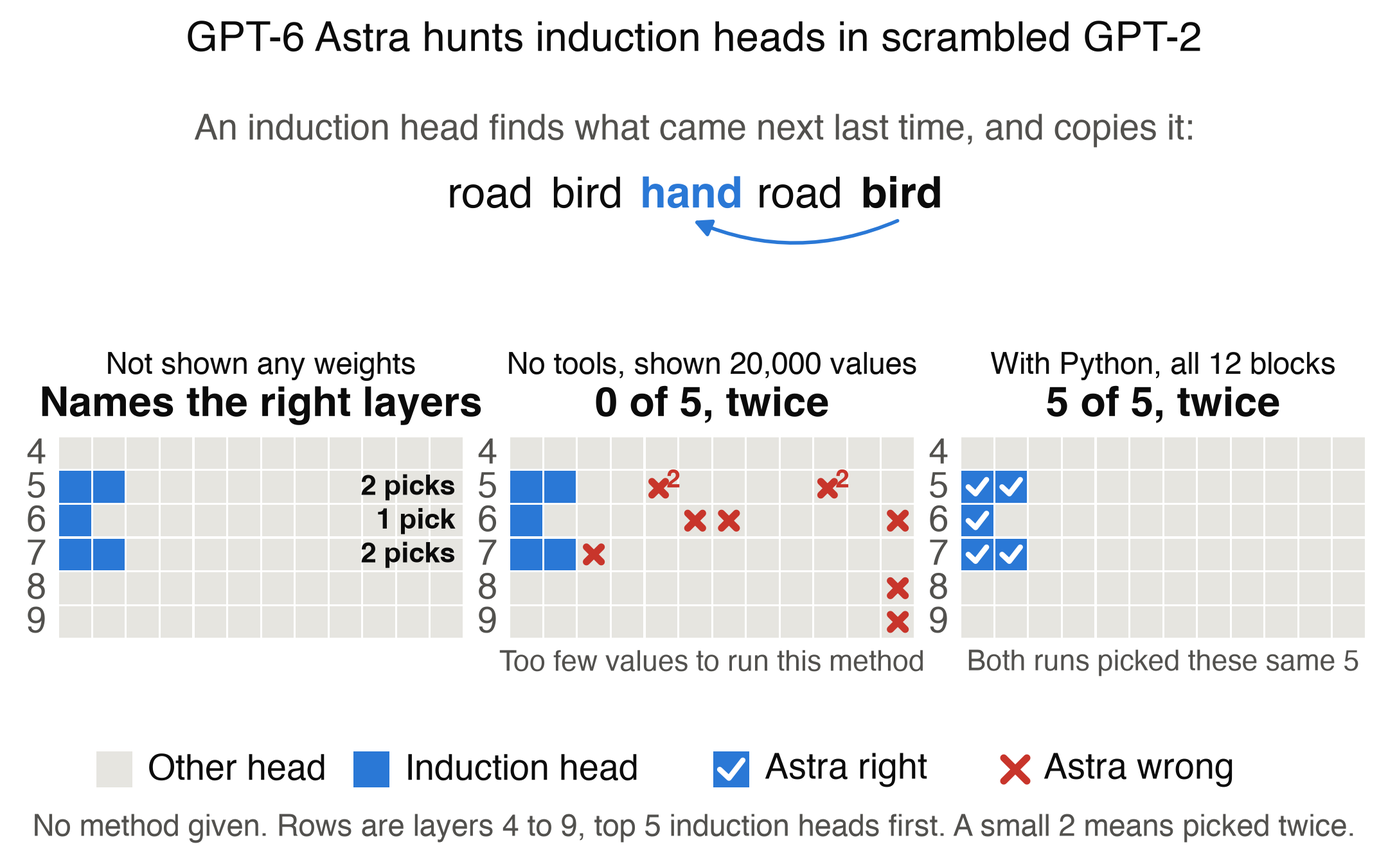
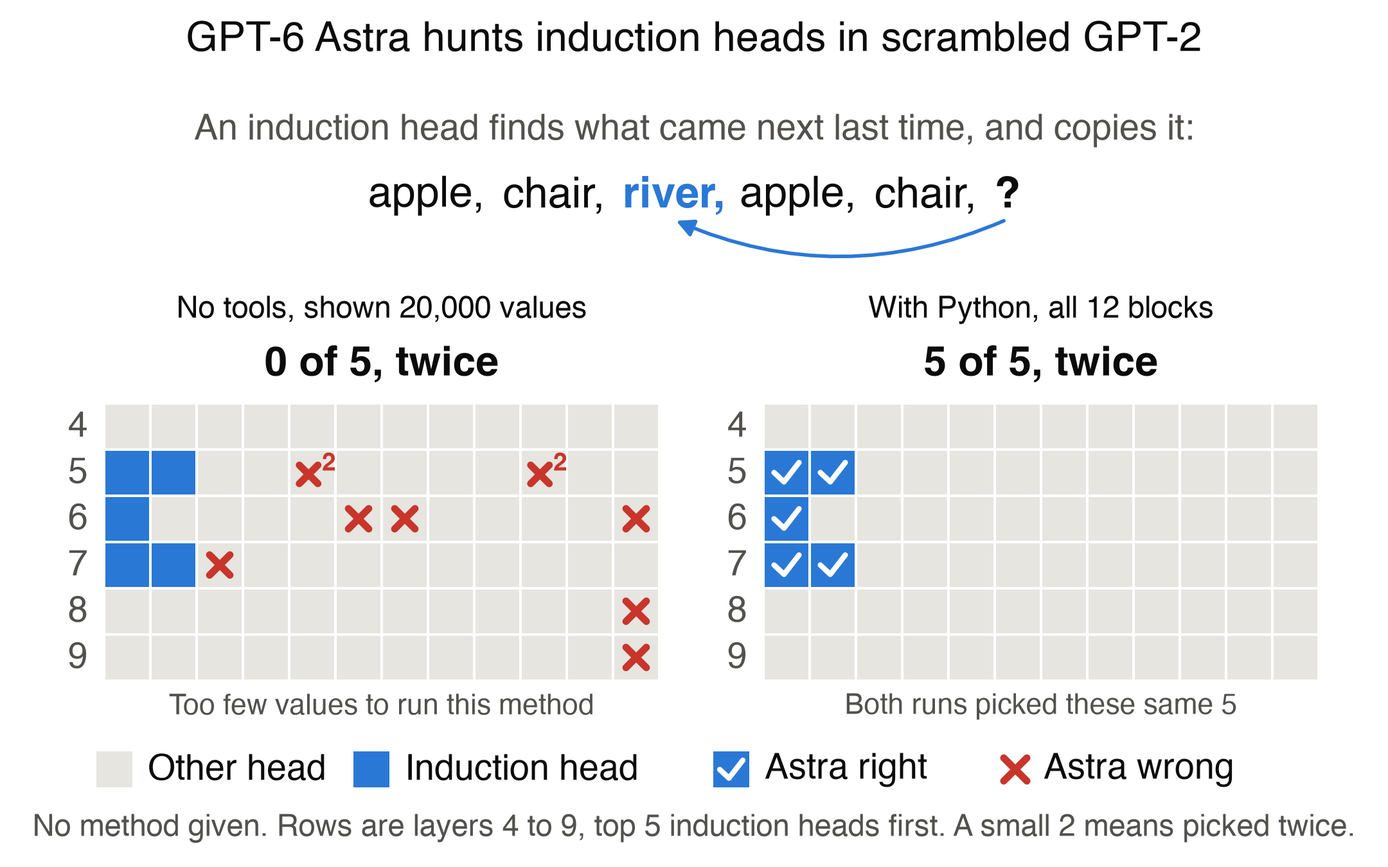
Use a readable example and add a query control to the path test
Replace the example with a comma list, drop the no-weights panel from the figure, and test random heads through
queries as well as keys.

diff --git a/scripts/reading_figure.py b/scripts/reading_figure.py
@@ -32,12 +32,11 @@ LABEL_POINTS, TITLE_POINTS, RESULT_POINTS, STAT_POINTS = 20, 23, 26, 44
 MARK_WIDTH = 4
 TITLE = "Can GPT-6 Astra find induction heads in scrambled GPT-2 weights?"
 EXAMPLE_INTRO = "An induction head finds what came next last time, and copies it:"
-EXAMPLE_WORDS = ("road", "bird", "hand", "road", "bird")
+EXAMPLE_WORDS = ("apple,", "chair,", "river,", "apple,", "chair,", "?")
 EXAMPLE_ANSWER = 2
 NOTE = "Layers 4 to 9 of 12. A small 2 means picked in both runs."
 STORY_TITLE = "GPT-6 Astra hunts induction heads in scrambled GPT-2"
-STORY_STEPS = (("Not shown any weights", ("blind",)), ("No tools, shown 20,000 values", ("read-1", "read-2")), ("With Python, all 12 blocks", ("python-1", "python-2")))
-STORY_NO_WEIGHTS_RESULT = "Names the right layers"
+STORY_STEPS = (("No tools, shown 20,000 values", ("read-1", "read-2")), ("With Python, all 12 blocks", ("python-1", "python-2")))
 STORY_NOTE = "No method given. Rows are layers 4 to 9, top 5 induction heads first. A small 2 means picked twice."
 STORY_PYTHON_NOTE = "Both runs picked these same 5"
 STORY_READ_NOTE = "Too few values to run this method"
@@ -235,24 +234,12 @@ def _arithmetic_figure(shuffle: TokenShuffle) -> None:
     print(output, summary)
 
 
-def _story_grid(axis, scores: np.ndarray, induction_heads: set, picks: list[tuple[int, int]], layer_counts: Counter | None) -> None:
-    """Draws one step of the story: marks on heads, or for the no-weights call, how many picks each layer got."""
-    _draw_grid(axis, scores, induction_heads, picks)
-    for layer, count in (layer_counts or {}).items():
-        word = "pick" if count == 1 else "picks"
-        axis.text(HEADS - 0.25, layer + 0.5, f"{count} {word}", fontsize=STORY_POINTS, fontweight="bold", ha="right", va="center", color=INK, zorder=4)
-
-
 def _story_figure(shuffle: TokenShuffle) -> None:
     real = real_network(shuffle).double()
     real.set_attn_implementation("eager")
     scores = head_scores(real)
     order = np.argsort(-scores.ravel())[:INDUCTION_HEADS]
     induction_heads = {(int(i) // HEADS, int(i) % HEADS) for i in order}
-    blind = _run_result("blind")
-    layer_counts = Counter(layer for layer, _ in blind["answer"])
-    if dict(layer_counts) != dict(Counter(layer for layer, _ in induction_heads)):
-        raise ValueError(f"the no-weights layers {layer_counts} no longer match the induction heads")
 
     figure = plt.figure(figsize=FIGURE_INCHES, facecolor="white")
     figure.text(0.5, 0.955, STORY_TITLE, fontsize=TITLE_POINTS, ha="center", va="center", color=INK)
@@ -261,20 +248,18 @@ def _story_figure(shuffle: TokenShuffle) -> None:
     for index, (heading, arms) in enumerate(STORY_STEPS):
         picks = [pick for arm in arms for pick in _picks_in_original_order(_run_result(arm), shuffle)]
         hits = sum(pick in induction_heads for pick in picks)
-        result = STORY_NO_WEIGHTS_RESULT if not index else f"{hits // len(arms)} of {INDUCTION_HEADS}, twice"
         results[heading] = {"runs": list(arms), "picks": picks, "hits_induction": hits}
-        axis = figure.add_axes([0.042 + index * 0.325, 0.24, 0.292, 0.28])
-        _story_grid(axis, scores, induction_heads, [] if not index else picks, layer_counts if not index else None)
+        axis = figure.add_axes([0.075 + index * 0.475, 0.215, 0.4, 0.32])
+        _draw_grid(axis, scores, induction_heads, picks)
         axis.text(HEADS / 2, 2.15, heading, fontsize=STORY_POINTS + 1, ha="center", color=INK)
-        axis.text(HEADS / 2, 3.4, result, fontsize=RESULT_POINTS - 3, fontweight="bold", ha="center", color=INK)
-        if index:
-            note = STORY_PYTHON_NOTE if arms[0].startswith("python") else STORY_READ_NOTE
-            axis.text(HEADS / 2, SHOWN_LAYERS[-1] + 1.7, note, fontsize=STORY_POINTS, ha="center", va="center", color=MUTED)
+        axis.text(HEADS / 2, 3.4, f"{hits // len(arms)} of {INDUCTION_HEADS}, twice", fontsize=RESULT_POINTS - 3, fontweight="bold", ha="center", color=INK)
+        note = STORY_PYTHON_NOTE if arms[0].startswith("python") else STORY_READ_NOTE
+        axis.text(HEADS / 2, SHOWN_LAYERS[-1] + 1.55, note, fontsize=STORY_POINTS, ha="center", va="center", color=MUTED)
     _draw_legend(figure)
     figure.text(0.5, 0.045, STORY_NOTE, fontsize=LABEL_POINTS - 3, ha="center", va="center", color=MUTED)
     output = ROOT / "figures" / "reading_story_v7.png"
     figure.savefig(output, dpi=DPI)
-    output.with_suffix(".json").write_text(json.dumps({"blind_layers": sorted(layer_counts.elements()), "steps": results}, indent=1))
+    output.with_suffix(".json").write_text(json.dumps({"steps": results}, indent=1))
     print(output, {heading: value["hits_induction"] for heading, value in results.items()})
 
 

diff --git a/checks/induction_examples.py b/checks/induction_examples.py
@@ -13,6 +13,7 @@ from wsp.reading import head_scores
 FIRST = "Mira Lena Tomas Priya Ivan Nora Omar Elsa Hugo Tara Felix Anya Ravi Greta Milo".split()
 LAST = "Kowal Brandt Osei Varga Lindqvist Moreau Takeda Novak Haddad Ferro Quill Dunmore Ashby Rourke Pell".split()
 WORDS = "dog cat tree house car book road fish bird door hand river stone chair table".split()
+CITIES = "Paris Rome London Berlin Madrid Tokyo Cairo Lima Oslo Vienna".split()
 SENTENCES = {
     "name again in a new sentence": "{a} {b} went home, and {a}",
     "name again after a longer gap": "I met {a} {b} at the station. Later that day, {a}",
@@ -20,6 +21,16 @@ SENTENCES = {
     "same sentence repeated": "{a} {b} went home early. {a}",
     "name listed three times": "{a} {b}, {a} {b}, {a}",
 }
+FIGURE_CANDIDATES = (
+    ("road bird hand road bird", "hand"),
+    ("apple, chair, river, apple, chair,", "river"),
+    ("dog, table, moon, dog, table,", "moon"),
+    ("car, house, tree, car, house,", "tree"),
+    ("cat, book, door, cat, book,", "door"),
+    ("fish, stone, chair, fish, stone,", "chair"),
+    ("Anna lives in Paris. Ben lives in Rome. Anna lives in", "Paris"),
+    ("Anna likes tea. Ben likes milk. Anna likes", "tea"),
+)
 RANDOM_SETS = 10
 SEED = 20261103
 BATCH = 256
@@ -86,6 +97,17 @@ for _ in range(300):
     words = [WORDS[i] for i in word_rng.choice(len(WORDS), 5, replace=False)]
     lists.append((shuffle.encode(" ".join(words + words[:3])), shuffle.encode(f" {words[3]}")[0]))
 cases["word list repeated"] = lists
+short_lists = []
+for _ in range(300):
+    first, second, third = [WORDS[i] for i in word_rng.choice(len(WORDS), 3, replace=False)]
+    short_lists.append((shuffle.encode(f"{first}, {second}, {third}, {first}, {second},"), shuffle.encode(f" {third}")[0]))
+cases["short comma list, 3 words repeated"] = short_lists
+who_lives = []
+for _ in range(300):
+    first, second = [FIRST[i] for i in word_rng.choice(len(FIRST), 2, replace=False)]
+    here, there = [CITIES[i] for i in word_rng.choice(len(CITIES), 2, replace=False)]
+    who_lives.append((shuffle.encode(f"{first} lives in {here}. {second} lives in {there}. {first} lives in"), shuffle.encode(f" {here}")[0]))
+cases["who lives where"] = who_lives
 
 print("case | nothing | top 5 zeroed | top 5 mean | next 5 zeroed | top 10 zeroed | 5 others zeroed (mean of 10 sets), each as top-token share / mean probability")
 for label, items in cases.items():
@@ -98,6 +120,7 @@ for label, items in cases.items():
     row.append(tuple(np.mean([measure(model, prompts, answers, heads) for heads in random_sets], axis=0)))
     print(f"{label:34s} " + " | ".join(f"{a:.2f}/{b:.2f}" for a, b in row))
 
-example = shuffle.encode("road bird hand road bird")
-answer = shuffle.encode(" hand")[0]
-print("figure example, nothing silenced:", measure(model, [example], [answer]), "top 5 zeroed:", measure(model, [example], [answer], ranked[:5]))
+for text, word in FIGURE_CANDIDATES:
+    example, answer = shuffle.encode(text), shuffle.encode(f" {word}")[0]
+    before, after = measure(model, [example], [answer]), measure(model, [example], [answer], ranked[:5])
+    print(f"{text!r} -> {word!r}: nothing silenced {before[1]:.3f} (on top {before[0]:.0f}), top 5 zeroed {after[1]:.3f} (on top {after[0]:.0f})")

diff --git a/checks/how_statistic_classifies.py b/checks/how_statistic_classifies.py
@@ -154,7 +154,7 @@ def main() -> None:
     top = ranked(induction, 10)
     later = np.arange(HEADS, 144)
 
-    print("1. What the five heads and their source attend to, on repeated random tokens")
+    print(f"1. What the five heads and their source attend to, on {REPEAT_LENGTH} random tokens repeated")
     for pattern, values in patterns.items():
         print(f"  top five by {pattern}: " + ", ".join(f"{name(i)} {values.ravel()[i]:.2f}" for i in ranked(values)))
     print(f"  source {name(source)}: " + ", ".join(f"{pattern} {values.ravel()[source]:.2f} (rank {int((-values.ravel()).argsort().tolist().index(source)) + 1})" for pattern, values in patterns.items()))
@@ -217,13 +217,14 @@ def main() -> None:
     for label, offset in (("keys only", 1), ("queries only", 0)):
         attention, accuracy = path_patched(model, tokens, sources, five, offset)
         print(f"  {label}: the five's induction attention {attention[five].mean():.3f}, per head " + " ".join(f"{name(i)} {attention[i]:.2f}" for i in five) + f", repeat accuracy {accuracy:.3f}")
-    results = []
-    for _ in range(CONTROL_SETS):
-        picked = [(int(i) // HEADS, int(i) % HEADS) for i in rng.choice(others, 8, replace=False)]
-        attention, accuracy = path_patched(model, tokens, picked, five, 1)
-        results.append((attention[five].mean(), accuracy))
-    results = np.array(results)
-    print(f"  {CONTROL_SETS} random sets of 8 other heads, keys only: attention mean {results[:, 0].mean():.3f}, lowest {results[:, 0].min():.3f}; repeat accuracy mean {results[:, 1].mean():.3f}, lowest {results[:, 1].min():.3f}")
+    picked_sets = [[(int(i) // HEADS, int(i) % HEADS) for i in rng.choice(others, 8, replace=False)] for _ in range(CONTROL_SETS)]
+    for label, offset in (("keys only", 1), ("queries only", 0)):
+        results = []
+        for picked in picked_sets:
+            attention, accuracy = path_patched(model, tokens, picked, five, offset)
+            results.append((attention[five].mean(), accuracy))
+        results = np.array(results)
+        print(f"  {CONTROL_SETS} random sets of 8 other heads, {label}: attention mean {results[:, 0].mean():.3f}, lowest {results[:, 0].min():.3f}; repeat accuracy mean {results[:, 1].mean():.3f}, lowest {results[:, 1].min():.3f}")
 
     print("6. Would another previous-token head point to the same five?")
     for writer in previous_heads[:5]:

diff --git a/README.md b/README.md
@@ -5,11 +5,11 @@ By [Alex Bodner](https://twitter.com/AlexBodner_). A small follow-up to [Sparks 
 ## Reading
 With no tools and 20,000 values to read, Astra did no better than guessing. With Python and no method given, it found GPT-2's top five induction heads in both runs, on scrambled weights.
 
-![Three steps: Astra with no weights, with no tools, and with Python](figures/reading_story_v7.png)
+![Astra with no tools and with Python](figures/reading_story_v7.png)
 
 GPT-2 small has 144 attention heads, the parts that choose which earlier tokens to focus on. Induction heads complete A B ... A with B: they attend to what followed the last A and copy it, and Anthropic linked them to in-context learning. [Anthropic described them in 2021](https://transformer-circuits.pub/2021/framework/) by inspecting and running models. Astra names 5 heads from a scrambled copy's weights, and we get the truth by running GPT-2 on repeated random tokens. The top five score 0.83 to 0.92, the next five 0.46 to 0.51, and those five are the [induction heads usually cited](https://dhruvpatel1706.github.io/writing/induction-heads.html) for GPT-2 small. To check they do the work and not just look in the right place, `checks/induction_ablation.py` silences them: repeat accuracy on repeated random tokens falls from 98.6% to 28.9%. Silencing the next five leaves 97.9%, silencing all ten leaves 4.0%, and 20 sets of 5 other heads average 96.7%. Word lists fall from 93% to 47%, but a name repeated in an ordinary sentence becomes the top answer more often when these heads are silenced, for example 18% to 41% of cases, which we can't explain (`checks/induction_examples.py`).
 
-- **With Python and no method given, two runs:** 5 of 5 in both, the same five heads, in 4 and 5 turns, for $2.53 at list price. Only the blocks were available, with no way to run the model on text, and no method was given. Before its first code it spent 972 and 1,291 reasoning tokens, then tested the published two-step circuit: an earlier head passes along the previous token, and a later head matches on it. The scrambling hides each head and its coordinates, but keeps layer order and the products QK^T and VO. This tests the matching half of the circuit, because copying needs the embeddings, which it never had. `checks/composition_statistic.py` reruns that statistic with no layer rule and gets 5 of 5 on all five scrambles, so a script knowing the method does this too, and both runs see the same products, which makes them closer to one measurement than two. The deciding statistic uses about 28M of the 85M weights it could read, so this says little about size. The prompt defines the target and allows any linear algebra, and its syntax example uses `L5`, a layer holding two of the five. Its first code searches every layer, so the method doesn't need `L5`, though we can't rule out that it nudged Astra. To check: [run 1](runs/reading-python-1__live__20261104T014623Z/transcript.jsonl) and [run 2](runs/reading-python-2__live__20261104T015236Z/transcript.jsonl), one JSON line per turn with its code and output, and [the prompt](prompts/reading_python.txt). Its reasoning is encrypted, so we see its code and token counts, not its thoughts. [How Astra found them](HOW_ASTRA_FOUND_THEM.md) walks through its code and our audit for cheating, and `checks/audit_python_runs.py` reruns that audit. `checks/how_statistic_classifies.py` tests why the statistic works: the earlier head it finds, 4.11, puts 98% of its attention on the previous token, and removing the top 8 such heads only from the five heads' keys cuts their pattern from 0.87 to 0.52, against 0.82 through queries and 0.80 for random sets through keys.
+- **With Python and no method given, two runs:** 5 of 5 in both, the same five heads, in 4 and 5 turns, for $2.53 at list price. Only the blocks were available, with no way to run the model on text, and no method was given. Before its first code it spent 972 and 1,291 reasoning tokens, then tested the published two-step circuit: an earlier head passes along the previous token, and a later head matches on it. The scrambling hides each head and its coordinates, but keeps layer order and the products QK^T and VO. This tests the matching half of the circuit, because copying needs the embeddings, which it never had. `checks/composition_statistic.py` reruns that statistic with no layer rule and gets 5 of 5 on all five scrambles, so a script knowing the method does this too, and both runs see the same products, which makes them closer to one measurement than two. The deciding statistic uses about 28M of the 85M weights it could read, so this says little about size. The prompt defines the target and allows any linear algebra, and its syntax example uses `L5`, a layer holding two of the five. Its first code searches every layer, so the method doesn't need `L5`, though we can't rule out that it nudged Astra. To check: [run 1](runs/reading-python-1__live__20261104T014623Z/transcript.jsonl) and [run 2](runs/reading-python-2__live__20261104T015236Z/transcript.jsonl), one JSON line per turn with its code and output, and [the prompt](prompts/reading_python.txt). Its reasoning is encrypted, so we see its code and token counts, not its thoughts. [How Astra found them](HOW_ASTRA_FOUND_THEM.md) walks through its code and our audit for cheating, and `checks/audit_python_runs.py` reruns that audit. `checks/how_statistic_classifies.py` tests why the statistic works: the earlier head it finds, 4.11, puts 98% of its attention on the previous token, and removing the top 8 such heads only from the five heads' keys cuts their pattern from 0.87 to 0.52, against 0.80 for random sets, while through queries they give 0.82 against 0.83.
 - **No tools, two reads of 20,000 values each:** 0 of 5 both times. Our [frozen test](METHOD.md) counted the top 10, needed 6 of 10 and failed. Guessing also gets 0 of 10 about 32 to 48% of the time on that test, and 58 to 70% on the five induction heads, so the zero is weak evidence by itself. To check: [read 1](runs/reading-read-1__live__20261103T023015Z/audit.txt) and [read 2](runs/reading-read-2__live__20261103T144636Z/audit.txt).
 - **No weights at all, one call:** it called its answer guesses, yet named layers 5, 5, 6, 7, 7, exactly where these five heads sit. That is likely recall: the prompt gives GPT-2's exact shape and weight count. Scrambling keeps layers and hides which head is which, and knowing the layers gets under 1 of 5.
 - **A control with a hint, one read and no tools:** 3 of 5 induction heads, scored after the fact, against a mean of 2.6 for a script with the same formula, layer rule and budget. On the frozen top 10 test, that is 4 of 5 against 3.4. The hint gives a formula, the sum of `Q[r] . K[r]` over rows, which measures how well a head's query weights match its key weights, says this tends to be larger for these heads, and says to skip layers 0 to 3. We chose all of it after looking at GPT-2. On all rows without the layer rule, the formula finds 0 of 5, and on 20,000 values it reaches about 9%, so we cannot tell which part mattered. The read and hinted prompts also use `L5`, a layer holding these heads, in a syntax example, which we noticed only after the runs.

diff --git a/METHOD.md b/METHOD.md
@@ -169,7 +169,7 @@ Astra failed the pass rule, at 0 of 10, and the hinted read worked. So it could 
 - **What the score measures:** attention to the token after the earlier copy, not whether a head writes that token. So a head counts here by where it looks. Value-output alignment is the usual proxy for what a head writes, from general knowledge of the induction-head literature. We did not measure what the picked heads write.
 - **Why both reads missed:** both also read some query and key weights (5,888 and 9,344 of their values, far more thinly than the hinted read's 19,968), but built their shortlists from value-output alignment, which finds 0 of 5 with every row on both disguises. The query-key statistic with every row, in layers 4 to 11, finds 4 of 5 on both. Across all 12 layers it finds 0 of 5, so the layer rule matters as much as the statistic.
 - **Its unhinted picks:** the closest across both reads ranks 18th of 144. On read 2 the best is 57th and scores 0.011, against 0.46 for the 10th-best head.
-- **The hinted picks:** 5.10, 7.9, 5.6 and 6.7 are hits, ranking 3, 5, 9 and 2 of 144. The miss, 8.2, ranks 13. These labels are on disguise 1003. In GPT-2's numbering they are 5.1, 7.2, 5.0, 6.9 and the miss 8.1, so the hits include 3 of the top five. The scores drop from 0.83 to 0.51 after fifth, so we also rescore on those five, after the fact: 0 of 10 alone, 3 of 5 hinted, and a mean of 2.6 for the script (`checks/top_five.py`). On these five, knowing the layers gets 17%, and guessing gets 0 of 10 about 58 to 70% of the time. The blind call, shown no weights, named layers 5, 5, 6, 7, 7, exactly where they sit, so Astra may know those layers from papers. Silencing the five by zeroing their value vectors drops repeat accuracy on repeated random tokens from 98.6% to 28.9%, against 97.9% for the next five, 4.0% for all ten and a mean of 96.7% for 20 sets of 5 other heads (`checks/induction_ablation.py`). So they do cause repeating on this input, and the next five look like a backup. That is narrower than in-context learning in general. Not run: mean ablation, ordinary text, or head-by-head effects on what is written. Its one blind hit is luck, because the scramble hides which head is which. The blind prompt gives the model's exact shape and weight count and says published facts about specific heads do not apply, so recall is likely. The read and hinted prompts use `L5` in their read syntax example, noticed only after the runs. Layer 5 holds two of the five heads, and read 2 still began at layers 0 to 2. We cannot measure how much this mattered. The other five in the top 10 are probably not induction heads, from memory of the IOI work and not checked here. Guessing gives at least 4 of 5 about 3e-4 of the time within layers 4 to 11.
+- **The hinted picks:** 5.10, 7.9, 5.6 and 6.7 are hits, ranking 3, 5, 9 and 2 of 144. The miss, 8.2, ranks 13. These labels are on disguise 1003. In GPT-2's numbering they are 5.1, 7.2, 5.0, 6.9 and the miss 8.1, so the hits include 3 of the top five. The scores drop from 0.83 to 0.51 after fifth, so we also rescore on those five, after the fact: 0 of 10 alone, 3 of 5 hinted, and a mean of 2.6 for the script (`checks/top_five.py`). On these five, knowing the layers gets 17%, and guessing gets 0 of 10 about 58 to 70% of the time. The blind call, shown no weights, named layers 5, 5, 6, 7, 7, exactly where they sit, so Astra may know those layers from papers. Silencing the five by zeroing their value vectors drops repeat accuracy on repeated random tokens from 98.6% to 28.9%, against 97.9% for the next five, 4.0% for all ten and a mean of 96.7% for 20 sets of 5 other heads (`checks/induction_ablation.py`). So they do cause repeating on this input, and the next five look like a backup. That is narrower than in-context learning in general. Since run, in `checks/induction_examples.py`: mean ablation, ordinary text, or head-by-head effects on what is written. Its one blind hit is luck, because the scramble hides which head is which. The blind prompt gives the model's exact shape and weight count and says published facts about specific heads do not apply, so recall is likely. The read and hinted prompts use `L5` in their read syntax example, noticed only after the runs. Layer 5 holds two of the five heads, and read 2 still began at layers 0 to 2. We cannot measure how much this mattered. The other five in the top 10 are probably not induction heads, from memory of the IOI work and not checked here. Guessing gives at least 4 of 5 about 3e-4 of the time within layers 4 to 11.
 - **Its picks follow from its numbers:** the same statistic on the same rows, in code, gives the same five heads (`checks/hinted_arithmetic.py`).
 - **Its typed arithmetic:** across its 96 stated dot products on row 137, correlation with code is 0.998 and the median error is 0.003, which is near the rounding floor of the two decimals it typed. 86 of 96 match code to two decimals, 99% have the right sign, and the largest error is 0.103. Its three-row means for the top five match code to 0.01.
 - **Reported token use:** the 48 dot products of layers 4 to 7 are 3,072 products, in one uninterrupted request reporting 13,352 reasoning tokens, or 4.3 per product.
@@ -210,7 +210,7 @@ Results, 2 runs, both sealed with no tool items:
 By the rule written above, this is the outcome we said would be clearly better than a one-line script. Every code block was read by hand, and none runs a layer on an input. The one keyword flag is a variable named `forward_fraction`. Neither run's code or replies name GPT-2 or induction heads.
 
 - **The method:** both runs compared each head's QK^T with earlier heads' VO, the published two-step circuit, on their first code run, then checked it on one earlier head.
-- **It is the method, not recall of the answer:** `checks/composition_statistic.py` reruns that statistic in code with no layer rule and gets 5 of 5 on all five scrambles. The earlier head it picks is GPT-2's 4.11 every time, which we recall as a known previous-token head and did not check.
+- **It is the method, not recall of the answer:** `checks/composition_statistic.py` reruns that statistic in code with no layer rule and gets 5 of 5 on all five scrambles. The earlier head it picks is GPT-2's 4.11 every time, which `checks/how_statistic_classifies.py` measures as 98% on the previous token.
 - **So a script now gets 5 of 5 too.** The 3 of 5 baseline was set before this statistic was known to work so well. A person who knows the circuit can write this in a page, so this does not show insight beyond the published work, and memory of that work may have guided it. The result was: no method given, and it chose and carried out the right one.
 - **What the scrambling keeps:** layer order and the products QK^T and VO, which are unchanged. The statistic tests the matching half of the circuit. With no embeddings there is no per-head copying score, and "previous token" is inherited from the published work, not measured here.
 - **Limits:** two runs, on one model and one famous circuit. The prompt's shapes identify GPT-2. Private reasoning is hidden.

diff --git a/HOW_ASTRA_FOUND_THEM.md b/HOW_ASTRA_FOUND_THEM.md
@@ -45,16 +45,16 @@ An earlier head reads a token z and writes `z V O`. A later head compares its cu
 We tested this on real GPT-2 with `checks/how_statistic_classifies.py` (output in [`checks/outputs/how_statistic_classifies.txt`](checks/outputs/how_statistic_classifies.txt)):
 
 - **The earlier head does what the circuit says.** Head 4.11 puts 98% of its attention on the previous token, the most of all 144 heads.
-- **The statistic sorts the top of the list well, not the whole list.** The five take ranks 1 to 5. Head 5.0 (copying 0.47) is 6th, but 5.8 (copying 0.07) is 7th, and the 6th highest copying head overall, 10.7, ranks 41st. Spearman with copying score over later heads is 0.69.
+- **The statistic sorts the top of the list well, not the whole list.** The five take ranks 1 to 5. Head 5.0 (copying 0.47) is 6th, but 5.8 (copying 0.07) is 7th, and 10.7, among the next five by copying score, ranks 41st. Spearman with copying score over later heads is 0.69.
 - **The match is token-specific, weakly, once embeddings are added.** Using the embeddings Astra never had, 2% of tokens score themselves highest through 4.11 and these five, against 0.05% by chance and 0.5% for random later heads. This skips everything between the embeddings and the head.
 - **4.11 is not needed alone, because several heads share its job.** Zeroing it barely changes repeating, 98.4% to 98.3%, and the five heads' attention falls from 0.87 to 0.81. Zeroing the top 8 previous-token heads in layers 1 to 4 takes that attention to 0.51 and repeating to 83.7%. Eight random sets of 8 other heads there average 0.80, with a lowest of 0.71, and repeating averages 93.3%. Cosine with other previous-token heads partly finds the same five: 4 of 5 with 2.2, 3 of 5 with 3.7.
 - **A similar statistic finds another kind of head.** A head's own `trace(Q K^T)`, with no earlier head, shares 4 of 5 with the top duplicate-token heads, which attend to the earlier copy itself. It shares 0 of 5 with previous-token heads, which need the position table Astra doesn't have.
 
-- **The signal reaches these heads through their keys, as the statistic assumes.** With the top 8 previous-token heads silenced only for what the five heads' keys see, their attention falls from 0.87 to 0.52, nearly the 0.51 from silencing them everywhere. Silenced only for their queries it stays at 0.82, and 8 random sets of 8 other heads through keys average 0.80, with a lowest of 0.75. Run 2 had hinted at this from weights alone: for head 5.1 it printed a key path of 114.2 against a reverse path of 38.2.
+- **The signal reaches these heads mostly through their keys, the route the statistic points to.** With the top 8 previous-token heads silenced only for what the five heads' keys see, their attention falls from 0.87 to 0.52, and repeating to 89.7%. Eight random sets of 8 other heads average 0.80 and 95.7%. Through queries, those same 8 heads give 0.82 and random sets 0.83, so queries show no specific effect, though 5.1 does fall to 0.71. Nothing downstream is frozen, so 6.9 and the layer 7 heads also inherit changes from layer 5. Run 2 had hinted at this from weights alone: for head 5.1 it printed a key path of 114.2 against a reverse path of 38.2.
 
-These are zero ablations with few control sets, on repeated random tokens, and the 8 heads were chosen on the same kind of input, so they support the circuit without proving it.
+These use 25 random tokens repeated, where the README's silencing numbers use 50. They are zero ablations with few control sets, the 8 heads were chosen on the same kind of input, and they test the route, not the cosine itself, so they support the circuit without proving it.
 
 ## What these heads do
-Zeroing the five heads together cuts correct repeating of random tokens from 98.6% to 28.9%, and of word lists from 93% to 47%. Zeroing the next five barely matters. In "road bird hand road bird", " hand" falls from 0.59 to 0.29 and stays on top. On a name repeated in an ordinary sentence, zeroing them makes the right name the top answer **more** often, for example 18% to 41% of cases, and using mean values instead changes some of these. We don't know why, and these five shouldn't be read as the whole story of in-context learning (`checks/induction_examples.py`).
+Zeroing the five heads together cuts correct repeating of random tokens from 98.6% to 28.9%, and of word lists from 93% to 47%. Zeroing the next five barely matters. Short lists like "apple, chair, river, apple, chair," fall from 93% to 43% over 300 lists, though single lists vary a lot, from 65% to 3% for this one to 24% rising to 80% for another. On a name repeated in an ordinary sentence, zeroing them makes the right name the top answer **more** often, for example 18% to 41% of cases, and using mean values instead changes some of these. We don't know why, and these five shouldn't be read as the whole story of in-context learning (`checks/induction_examples.py`).
 
 To read it yourself: [run 1](runs/reading-python-1__live__20261104T014623Z/transcript.jsonl) and [run 2](runs/reading-python-2__live__20261104T015236Z/transcript.jsonl), one JSON line per turn.
